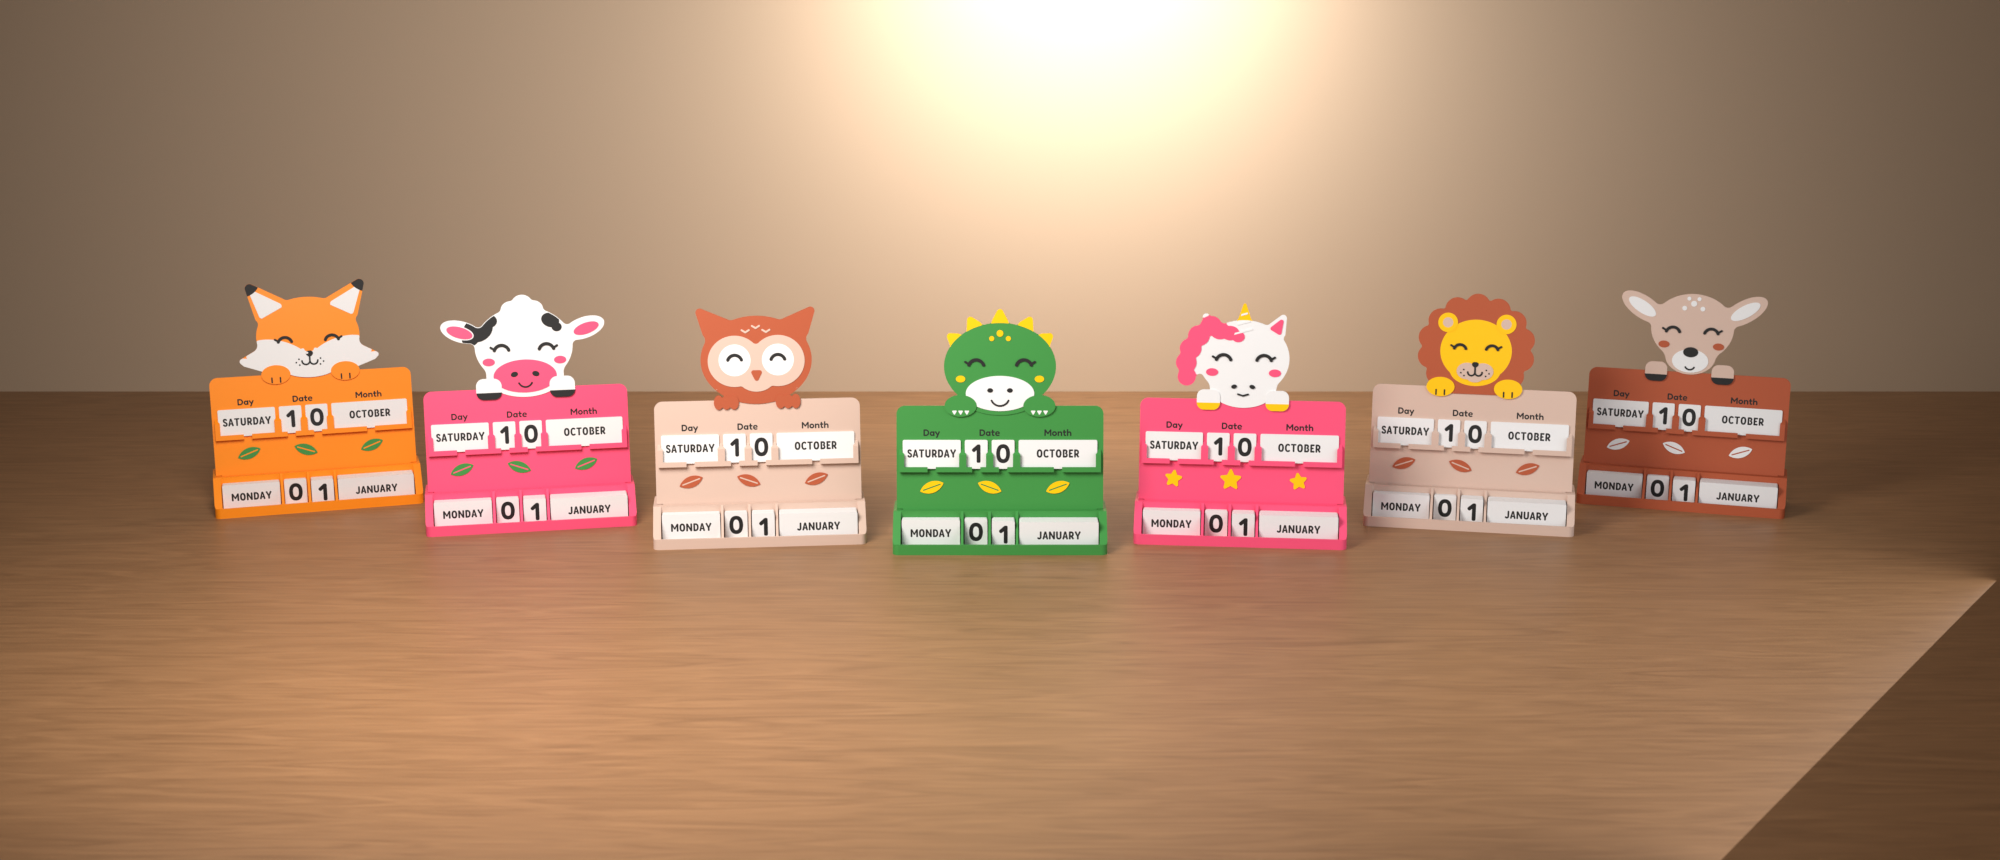
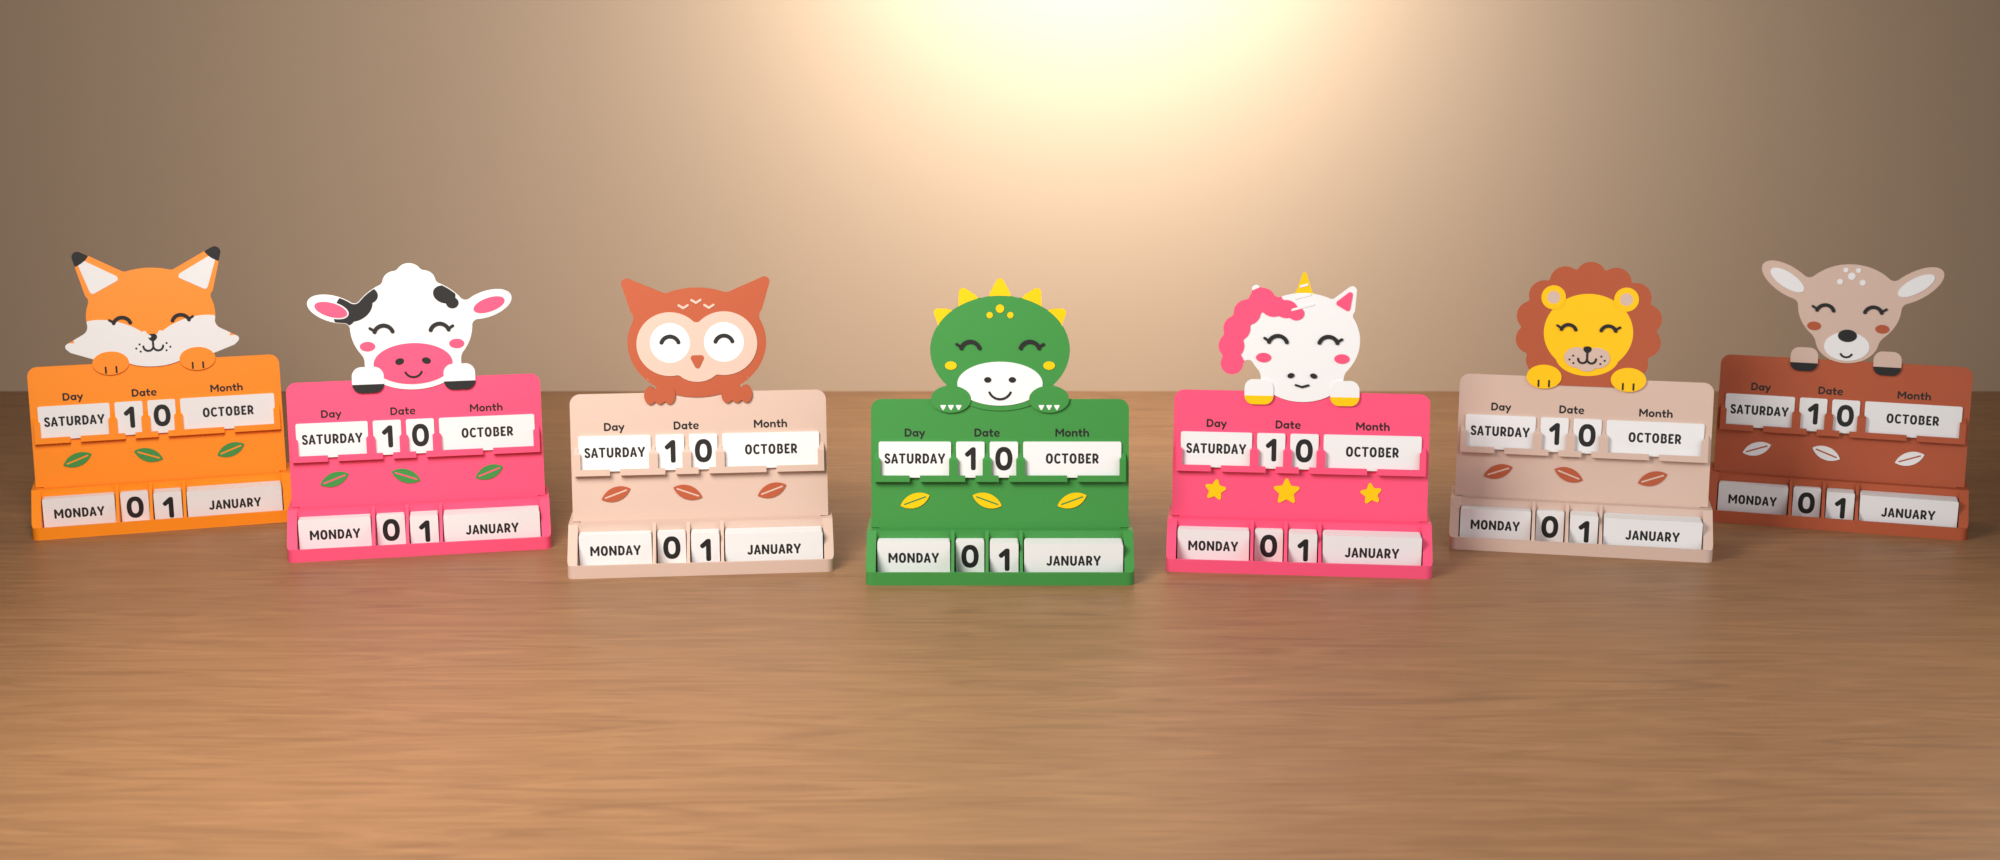
C-01 v0.3: renders en fan-art-foto's
- Productfoto per fan-art-variant (NL en EN) en een fan-art-familiefoto
- Familiefoto's NL/EN met alleen de eigen dieren, camera dichterbij
- Pasproef-render met de Engelse kaartjes
- Fan-art-README met familiefoto en foto per variant

Claude-Session: https://claude.ai/code/session_01CEwV8cHV75o92GBjAq5prv

diff --git a/modellen/C-01-dierenkalender/fanart/README.md b/modellen/C-01-dierenkalender/fanart/README.md
@@ -9,15 +9,17 @@
 > them on MakerWorld or anywhere else, and do not sell them.** Mario, Sonic and Spider-Man are traced directly
 > from existing artwork, which makes this even stricter.
 
+![Fan-art familie](familie.png)
+
 ![Fan-art fronten](fronten.png)
 
-| Nr | Variant | Kleuren · colours (Bambu PLA) | Hoe · how |
-|---|---|---|---|
-| 08 | Mario | Maroon Red 10205 (bord), Latte Brown 11800, Ivory White 11100, Charcoal 11101 | overgetrokken · traced |
-| 09 | Sonic | Marine Blue 11600 (bord), Latte Brown 11800, Ivory White 11100, Charcoal 11101 | overgetrokken · traced |
-| 10 | Spider-Man | Marine Blue 11600 (bord), Maroon Red 10205, Ivory White 11100, Charcoal 11101 | overgetrokken · traced |
-| 11 | Steve | Marine Blue 11600 (bord), Latte Brown 11800, Terracotta 11203, Ivory White 11100 (+ Charcoal voor de kaartjes) | pixelraster · pixel grid |
-| 12 | Creeper | Charcoal 11101 (bord), Mistletoe Green 10502, Maroon Red 10205 (TNT), Ivory White 11100 | pixelraster · pixel grid |
+| Nr | Variant | Kleuren · colours (Bambu PLA) | Hoe · how | Foto · photo |
+|---|---|---|---|---|
+| 08 | Mario | Maroon Red 10205 (bord), Latte Brown 11800, Ivory White 11100, Charcoal 11101 | overgetrokken · traced | <img src="08-mario/nl/mario_nl.png" width="140"> |
+| 09 | Sonic | Marine Blue 11600 (bord), Latte Brown 11800, Ivory White 11100, Charcoal 11101 | overgetrokken · traced | <img src="09-sonic/nl/sonic_nl.png" width="140"> |
+| 10 | Spider-Man | Marine Blue 11600 (bord), Maroon Red 10205, Ivory White 11100, Charcoal 11101 | overgetrokken · traced | <img src="10-spiderman/nl/spiderman_nl.png" width="140"> |
+| 11 | Steve | Marine Blue 11600 (bord), Latte Brown 11800, Terracotta 11203, Ivory White 11100 (+ Charcoal voor de kaartjes) | pixelraster · pixel grid | <img src="11-steve/nl/steve_nl.png" width="140"> |
+| 12 | Creeper | Charcoal 11101 (bord), Mistletoe Green 10502, Maroon Red 10205 (TNT), Ivory White 11100 | pixelraster · pixel grid | <img src="12-creeper/nl/creeper_nl.png" width="140"> |
 
 Elke map `NN-naam/nl|en/` bevat hetzelfde als een gewone variant: het Bambu Studio-project
 (`dierenkalender_<naam>_nl.3mf` / `animal-calendar_<name>_en.3mf`, vijf platen), de front-STL's per kleur en een
